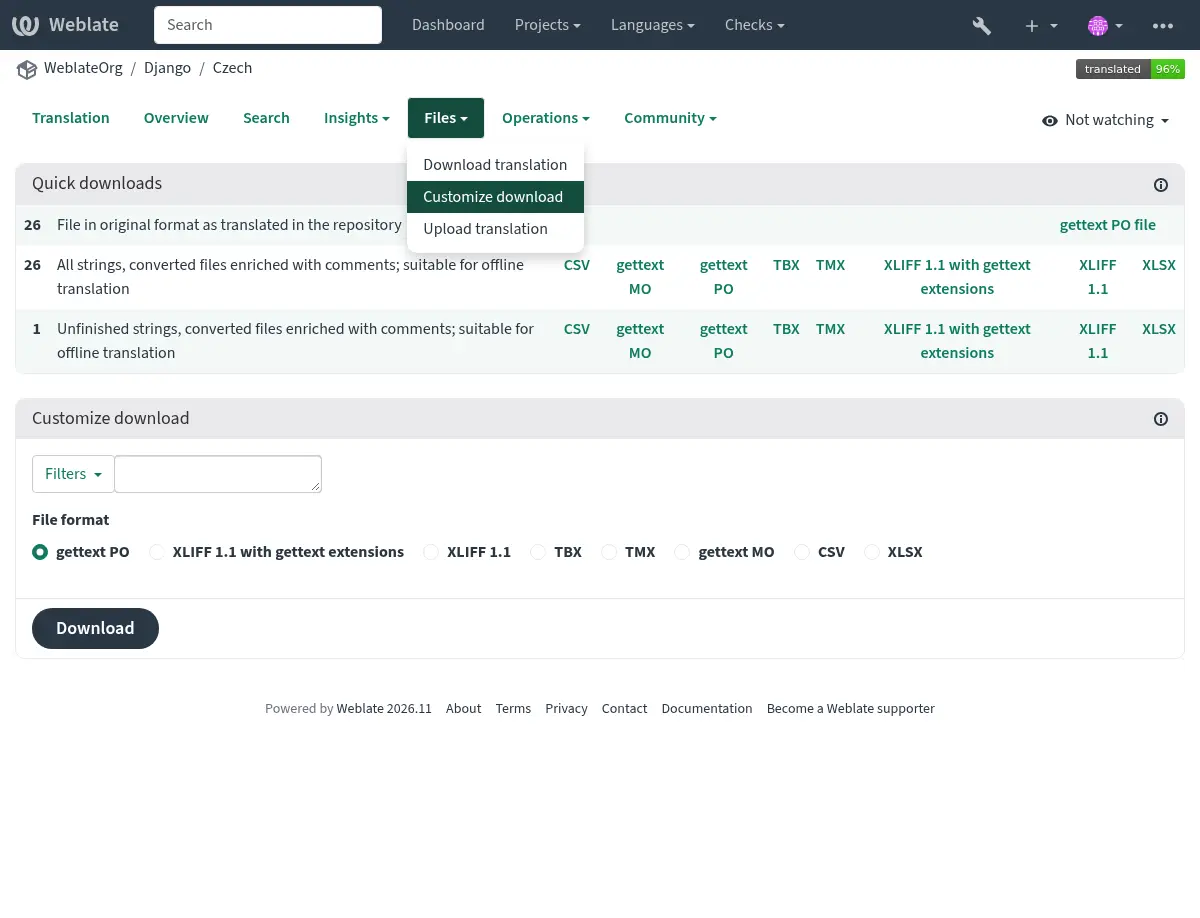
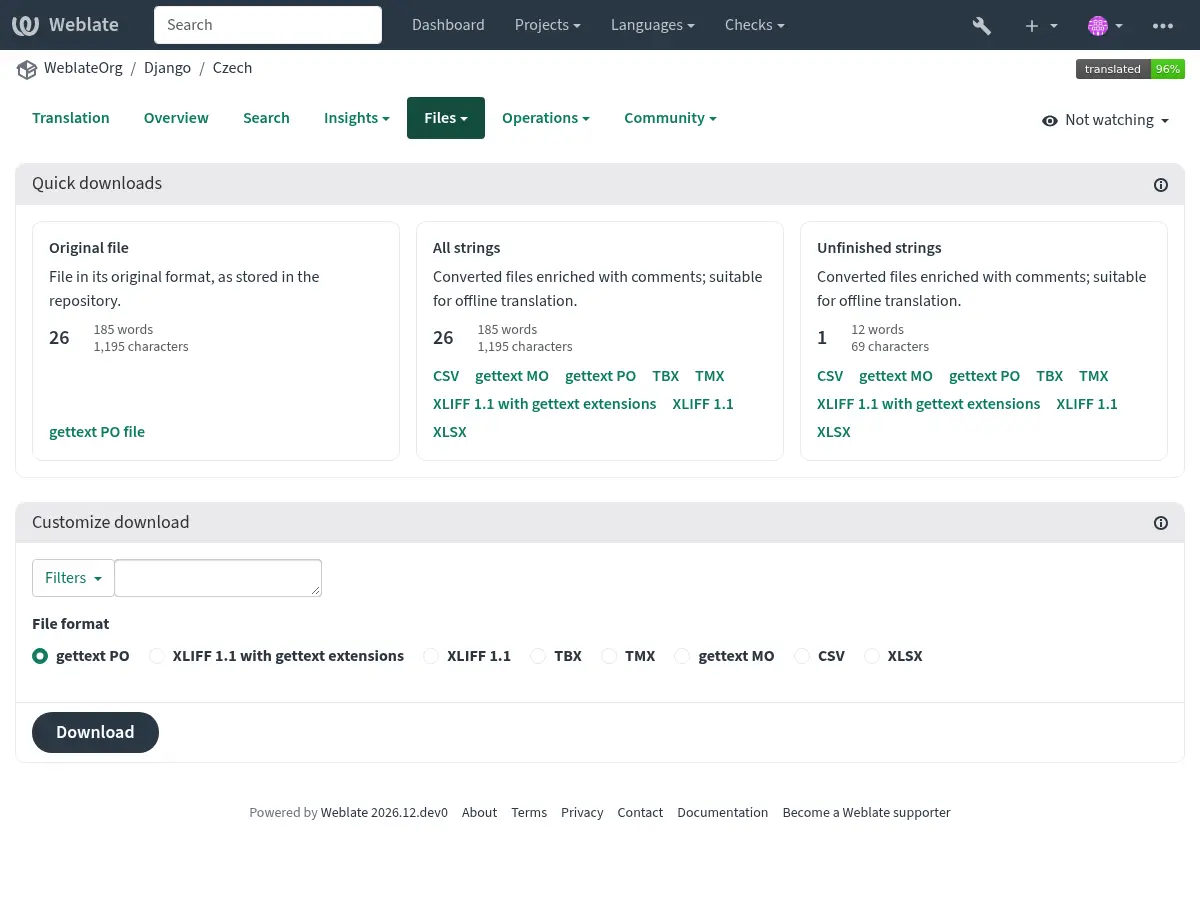
feat(ui): group quick downloads into responsive cards
Keep each download option beside its format links and reuse the translation checklist's filter names and counts so translators can see what each export contains.

diff --git a/weblate/templates/translation.html b/weblate/templates/translation.html
@@ -1,6 +1,6 @@
 {% extends "base.html" %}
 
-{% load crispy_forms_tags humanize i18n metrics permissions translations user_display %}
+{% load crispy_forms_tags i18n metrics permissions translations user_display %}
 
 {% block nav_pills %}
   {% contributor_access object as can_download_original %}
@@ -316,48 +316,22 @@
             {% translate "Quick downloads" %}
           </h4>
         </div>
-        <table class="table table-listing table-striped">
+        <div class="card-body">
           {% contributor_access object as can_download_original %}
+          {% url 'download' path=object.get_url_path as download_url %}
           {% if object.filename and not can_download_original %}
-            <tr>
-              <td colspan="{{ exporters|length|add:2 }}">
-                {% translate "Original files can contain contributor identities and require additional permission. Use a generated export below for offline translation." %}
-              </td>
-            </tr>
+            <p>{% translate "Original files can contain contributor identities and require additional permission. Use a generated export below for offline translation." %}</p>
           {% endif %}
-          {% if object.filename and can_download_original %}
-            <tr>
-              <th class="number">{{ object.stats.all|intcomma }}</th>
-              <td>{% translate "File in original format as translated in the repository" %}</td>
-              <td class="number" colspan="{{ exporters|length }}">
-                <a class="btn-inline"
-                   href="{% url 'download' path=object.get_url_path %}">{{ object.component.file_format_name }}</a>
-              </td>
-            </tr>
-          {% endif %}
-          <tr>
-            <th class="number">{{ object.stats.all|intcomma }}</th>
-            <td>{% translate "All strings, converted files enriched with comments; suitable for offline translation" %}</td>
-            {% for exporter in exporters %}
-              <td class="formats">
-                <a class="btn-inline"
-                   href="{% url 'download' path=object.get_url_path %}?format={{ exporter.name }}">{{ exporter.verbose }}</a>
-              </td>
-            {% endfor %}
-          </tr>
-          {% if object.stats.todo %}
-            <tr>
-              <th class="number">{{ object.stats.todo|intcomma }}</th>
-              <td>{% translate "Unfinished strings, converted files enriched with comments; suitable for offline translation" %}</td>
-              {% for exporter in exporters %}
-                <td class="formats">
-                  <a class="btn-inline"
-                     href="{% url 'download' path=object.get_url_path %}?format={{ exporter.name }}&amp;q=state:&lt;translated">{{ exporter.verbose }}</a>
-                </td>
-              {% endfor %}
-            </tr>
-          {% endif %}
-        </table>
+          <ul class="action-card-grid quick-downloads list-unstyled mb-0">
+            {% if object.filename and can_download_original %}
+              {% include "snippets/quick-download.html" with count=object.stats.all words=object.stats.all_words characters=object.stats.all_chars original_format=object.component.file_format_name download_url=download_url only %}
+            {% endif %}
+            {% include "snippets/quick-download.html" with filter_name="all" count=object.stats.all words=object.stats.all_words characters=object.stats.all_chars exporters=exporters download_url=download_url only %}
+            {% if object.stats.todo %}
+              {% include "snippets/quick-download.html" with filter_name="todo" count=object.stats.todo words=object.stats.todo_words characters=object.stats.todo_chars exporters=exporters download_url=download_url query="state:<translated" only %}
+            {% endif %}
+          </ul>
+        </div>
       </div>
 
       <form class="double-submission"

diff --git a/weblate/templates/snippets/translation.html b/weblate/templates/snippets/translation.html
@@ -64,7 +64,7 @@
       {% translate "Strings status" %}
     </h4>
   </div>
-  <ul class="card-body translation-checklist list-unstyled mb-0">
+  <ul class="card-body action-card-grid translation-checklist list-unstyled mb-0">
     {% for query, name, count, color, words, characters in object.list_translation_checks %}
       {% with filter_query=query|urlencode %}
         <li class="card mb-0 overflow-hidden overflow-wrap">
@@ -76,20 +76,7 @@
           <h5 class="fs-6 fw-semibold">
             <a class="stretched-link" href="{{ translate_url }}?q={{ filter_query }}">{{ name }}</a>
           </h5>
-          <div class="d-flex align-items-center flex-wrap column-gap-4 row-gap-2">
-            <span class="fs-5 fw-semibold">
-              <span class="visually-hidden">{% translate "Strings" %}</span>
-              {{ count|intcomma }}
-            </span>
-            <div class="small text-body-secondary lh-sm">
-              <div>
-                {% blocktranslate count counter=words with number=words|intcomma %}{{ number }} word{% plural %}{{ number }} words{% endblocktranslate %}
-              </div>
-              <div>
-                {% blocktranslate count counter=characters with number=characters|intcomma %}{{ number }} character{% plural %}{{ number }} characters{% endblocktranslate %}
-              </div>
-            </div>
-          </div>
+          {% include "snippets/string-counts.html" with count=count words=words characters=characters only %}
           <div class="d-flex flex-wrap gap-3 mt-auto pt-2 fw-semibold">
             <a class="z-2" href="{{ browse_url }}?q={{ filter_query }}">{% translate "Browse" %}</a>
             <a class="z-2" href="{{ edit_url }}?q={{ filter_query }}">{% translate "Translate" %}</a>

diff --git a/weblate/templates/snippets/quick-download.html b/weblate/templates/snippets/quick-download.html
@@ -1,0 +1,28 @@
+{% load i18n translations %}
+
+<li class="card p-3 mb-0 overflow-wrap">
+  <h5 class="fs-6 fw-semibold">
+    {% if original_format %}
+      {% translate "Original file" %}
+    {% else %}
+      {% get_filter_name filter_name %}
+    {% endif %}
+  </h5>
+  <p class="mb-2">
+    {% if original_format %}
+      {% translate "File in its original format, as stored in the repository." %}
+    {% else %}
+      {% translate "Converted files enriched with comments; suitable for offline translation." %}
+    {% endif %}
+  </p>
+  {% include "snippets/string-counts.html" with count=count words=words characters=characters only %}
+  <div class="d-flex flex-wrap column-gap-3 row-gap-1 mt-auto pt-2 fw-semibold">
+    {% if original_format %}
+      <a class="stretched-link" href="{{ download_url }}">{{ original_format }}</a>
+    {% else %}
+      {% for exporter in exporters %}
+        <a href="{{ download_url }}?format={{ exporter.name|urlencode }}{% if query %}&amp;q={{ query|urlencode }}{% endif %}">{{ exporter.verbose }}</a>
+      {% endfor %}
+    {% endif %}
+  </div>
+</li>

diff --git a/weblate/static/styles/main.css b/weblate/static/styles/main.css
@@ -247,11 +247,21 @@ ul.legend li {
   width: 14px;
 }
 
+.action-card-grid {
+  display: grid;
+  grid-template-columns: repeat(
+      var(--card-grid-repeat, auto-fill),
+      minmax(min(100%, 20rem), 1fr)
+    );
+  gap: 1rem;
+}
+
+.quick-downloads {
+  --card-grid-repeat: auto-fit;
+}
+
 .translation-checklist {
   --checklist-stripe-width: 0.25rem;
-  display: grid;
-  grid-template-columns: repeat(auto-fill, minmax(min(100%, 20rem), 1fr));
-  gap: 1rem;
 }
 
 .translation-checklist > .card {
@@ -259,7 +269,7 @@ ul.legend li {
   padding-inline-start: calc(1rem + var(--checklist-stripe-width));
 }
 
-.translation-checklist > .card:has(.stretched-link:is(:hover, :focus-visible)) {
+.action-card-grid > .card:has(.stretched-link:is(:hover, :focus-visible)) {
   border-color: var(--bs-link-color);
 }
 
@@ -690,14 +700,6 @@ th:hover .sort-icon {
   .bignumbers {
     padding: 3em 1em;
   }
-}
-
-.btn-inline {
-  font-weight: 600;
-  padding: 0 20px;
-}
-.formats .btn-inline {
-  padding: 0;
 }
 
 .btn-desc p {

diff --git a/weblate/templates/snippets/string-counts.html b/weblate/templates/snippets/string-counts.html
@@ -1,0 +1,16 @@
+{% load humanize i18n %}
+
+<div class="d-flex align-items-center flex-wrap column-gap-4 row-gap-2">
+  <span class="fs-5 fw-semibold">
+    <span class="visually-hidden">{% translate "Strings" %}</span>
+    {{ count|intcomma }}
+  </span>
+  <div class="small text-body-secondary lh-sm">
+    <div>
+      {% blocktranslate count counter=words with number=words|intcomma %}{{ number }} word{% plural %}{{ number }} words{% endblocktranslate %}
+    </div>
+    <div>
+      {% blocktranslate count counter=characters with number=characters|intcomma %}{{ number }} character{% plural %}{{ number }} characters{% endblocktranslate %}
+    </div>
+  </div>
+</div>

diff --git a/weblate/trans/templatetags/translations.py b/weblate/trans/templatetags/translations.py
@@ -29,7 +29,7 @@ from weblate.accounts.visibility import (
 )
 from weblate.auth.models import User
 from weblate.checks.models import CHECKS
-from weblate.trans.filter import FILTERS, get_filter_choice
+from weblate.trans.filter import FILTERS
 from weblate.trans.formatting import (
     format_language_string,
     format_source_string,
@@ -553,8 +553,7 @@ def get_unique_row_id(context: Context, obj) -> str:
 
 @register.simple_tag
 def get_filter_name(name: str) -> str:
-    names = dict(get_filter_choice())
-    return names[name]
+    return str(FILTERS.get_filter_name(name))
 
 
 def get_alert_css_class(icon_name: str, css_class: str = "") -> str:

diff --git a/weblate/trans/tests/test_selenium.py b/weblate/trans/tests/test_selenium.py
@@ -5980,7 +5980,6 @@ class SeleniumTests(
         self.assert_text_contains("#upload", "File upload mode")
         self.screenshot("file-import-methods.png")
         self.click("Customize download")
-        self.click("Files")
         self.screenshot("file-download.png")
         self.click("Operations")
         self.click("Batch automatic translation")

diff --git a/docs/changes.rst b/docs/changes.rst
@@ -16,6 +16,7 @@ Weblate 2026.12
 
 * Show commit counts, occurrence totals, file-format evidence, and the last recorded translation change in the relevant :ref:`component diagnostics <alerts>`.
 * Redesigned the :ref:`translation checklist <strings-to-check>` as responsive cards with prominent string counts and actions next to each filter.
+* Grouped :ref:`quick downloads <download>` into cards with format links and string, word, and character counts.
 
 * Moved distributed locking to :ref:`PostgreSQL <database-setup>` and enabled concurrent repository reads for downloads, component copies, Kotlin SDK extraction, project backups, and Git status checks.
 
